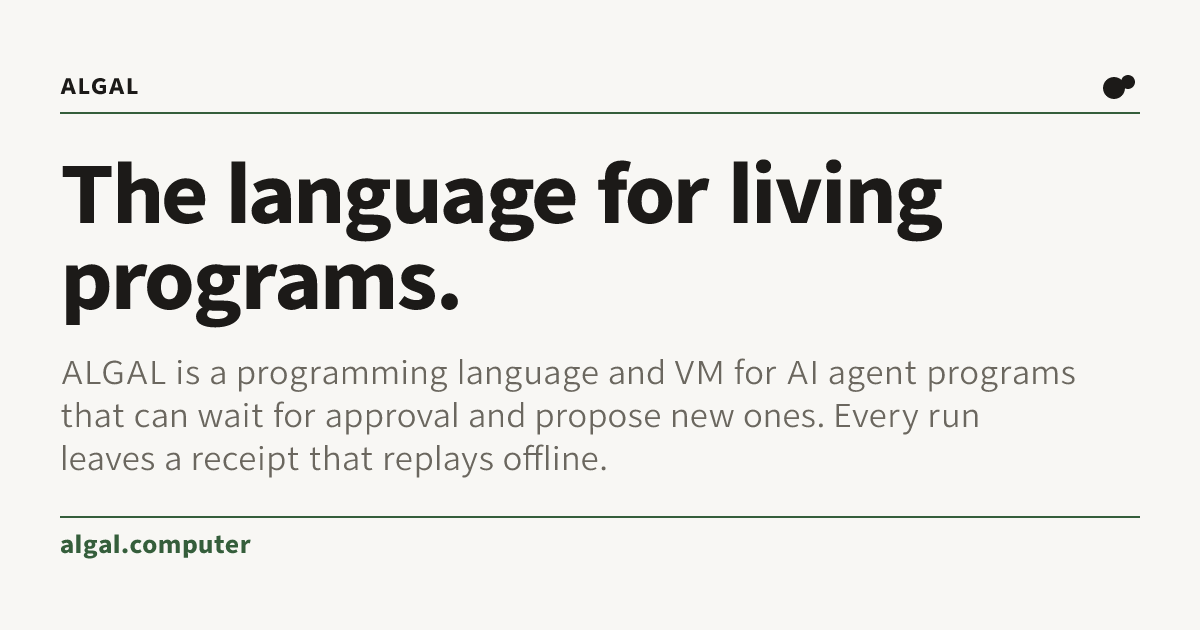
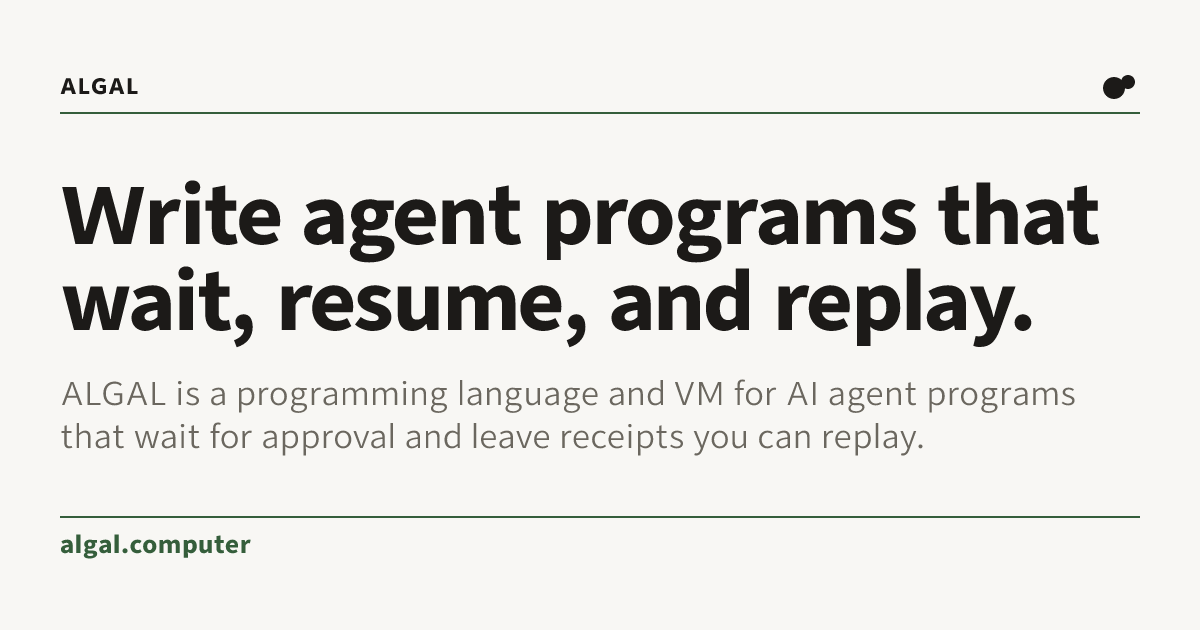
Carry canonical product messaging
Apply the canonical portfolio messaging record (jungle a9988b903) to every
copy surface: site title, meta, JSON-LD, social card, hero, footer, llms.txt,
README lead, both CLI intros, package and crate descriptions, and the
workbench report name case.

Changed region(s): [[0.0308, 0.2413, 0.925, 0.754]]

diff --git a/crates/algal/src/demo_report.html b/crates/algal/src/demo_report.html
@@ -4,7 +4,7 @@
 <meta charset="utf-8">
 <meta name="viewport" content="width=device-width,initial-scale=1">
 <meta http-equiv="Content-Security-Policy" content="default-src 'none'; script-src 'sha256-__ALGAL_SCRIPT_HASH__'; style-src 'unsafe-inline'; img-src data:; base-uri 'none'; form-action 'none'; connect-src 'none'">
-<title>Algal · VM workbench</title>
+<title>ALGAL · VM workbench</title>
 <style>
 :root{color-scheme:light;--ink:#172e34;--muted:#617176;--line:#dbe1d9;--paper:#f0f3eb;--green:#16785f;--mint:#83f0c8;--night:#102e36;--amber:#f2cf76;--sans:-apple-system,BlinkMacSystemFont,"Segoe UI",sans-serif;--mono:ui-monospace,SFMono-Regular,Consolas,monospace}
 *{box-sizing:border-box}body{margin:0;background:var(--paper);color:var(--ink);font-family:var(--sans);font-size:15px;line-height:1.5}button,a{touch-action:manipulation}button{font:inherit;cursor:pointer}button:disabled{cursor:default;opacity:.5}button:focus-visible,a:focus-visible,summary:focus-visible{outline:3px solid #1b9479;outline-offset:4px}a{color:var(--green)}.shell{max-width:1320px;margin:auto;padding:0 44px}header{height:91px;display:flex;align-items:center;justify-content:space-between;border-bottom:1px solid var(--line)}.brand{display:flex;align-items:center;gap:13px;font-weight:750;font-size:25px;letter-spacing:-1.3px}.mark{display:grid;grid-template-columns:9px 9px;gap:3px;transform:rotate(-12deg)}.mark i{width:9px;height:9px;border-radius:3px;background:var(--green)}.mark i:nth-child(2){opacity:.45}.brand small{font-size:11px;font-weight:600;color:var(--muted);letter-spacing:2px;margin-left:14px;padding-left:22px;border-left:1px solid #cad3ca}.header-note{display:flex;align-items:center;gap:9px;color:var(--muted);font-size:12px}.dot{width:7px;height:7px;border-radius:50%;background:#399978}.eyebrow{font-family:var(--mono);font-size:11px;text-transform:uppercase;letter-spacing:1.8px;color:var(--muted)}main{padding:34px 0 48px}.topline{display:flex;justify-content:space-between;align-items:center;margin-bottom:18px}.topline span:last-child{font-size:12px;color:var(--muted)}.layout{display:grid;grid-template-columns:minmax(0,1fr) 335px;gap:22px}.hero{background:var(--night);border-radius:18px;overflow:hidden;color:#fff;padding:32px 32px 28px;position:relative}.hero:after{content:"";position:absolute;right:-75px;top:-90px;width:275px;height:275px;border:1px solid #35575a;border-radius:50%;box-shadow:0 0 0 34px #18373f,0 0 0 35px #2b4b50;opacity:.55;pointer-events:none}.hero>*{position:relative;z-index:1}.status{display:inline-flex;gap:8px;align-items:center;padding:6px 10px;border:1px solid #5a6861;border-radius:6px;color:var(--amber);font:10px var(--mono);letter-spacing:1.2px}.status:before{content:"";width:5px;height:5px;border-radius:50%;background:currentColor}.hero h1{font-size:38px;line-height:1.13;letter-spacing:-1.4px;font-weight:550;margin:24px 0 14px;max-width:520px}.hero p{max-width:510px;color:#b9cfce;line-height:1.65;font-size:14px;margin:0}.pipeline{display:flex;align-items:center;gap:0;margin-top:34px}.node{flex:1;min-width:0;border:1px solid #41605f;border-radius:9px;padding:13px 10px;position:relative;background:#163b40}.node b{display:block;font-size:12px;font-weight:550}.node small{font:10px var(--mono);color:#9abcb5}.node .symbol{color:var(--mint);margin-bottom:5px;font-size:15px}.node.waiting{border-color:#b59b57;background:#3a4238}.node.waiting .symbol{color:var(--amber)}.node.pending{background:#18373e;border-color:#34515a;color:#789399}.node.pending .symbol{color:#65858e}.connector{width:19px;height:1px;background:#577775;flex-shrink:0}.metrics{display:grid;grid-template-columns:repeat(3,1fr);gap:12px;margin:18px 0 22px}.metric{background:#fff;border:1px solid var(--line);border-radius:11px;padding:17px 19px}.metric strong{display:block;font-size:29px;line-height:1.1;font-weight:550;letter-spacing:-1px}.metric span{display:block;color:var(--muted);font-size:11px;margin-top:8px}.panel{background:#fff;border:1px solid var(--line);border-radius:13px;overflow:hidden}.panel-head{padding:19px 23px;display:flex;justify-content:space-between;align-items:center;border-bottom:1px solid var(--line)}h2{font-size:15px;font-weight:650;margin:0;letter-spacing:-.2px}.badge{font:10px var(--mono);color:var(--green);background:#e5f4eb;padding:4px 7px;border-radius:4px}.tabs{display:flex;gap:23px;padding:0 23px;border-bottom:1px solid var(--line)}.tabs button{border:0;background:none;padding:16px 0 12px;font-size:12px;color:var(--muted);border-bottom:2px solid transparent}.tabs button[aria-selected="true"]{color:var(--ink);border-color:var(--green);font-weight:650}.tab-body{padding:23px;min-height:216px}pre{font:11px/1.75 var(--mono);white-space:pre-wrap;overflow-wrap:anywhere;margin:0;max-height:360px;overflow:auto;color:#3d545c}code{font-family:var(--mono)}.proposal-summary{font-size:16px;line-height:1.6;margin:0 0 20px;max-width:570px}.binding{display:flex;align-items:center;gap:10px;font-size:10px;color:var(--muted);margin-top:20px}.digest{font:10px var(--mono);overflow-wrap:anywhere;word-break:break-all}.history-row{display:flex;gap:16px;align-items:flex-start;padding:12px 0;border-bottom:1px solid #edf0eb}.history-row:last-child{border:0}.history-icon{width:27px;height:27px;border:1px solid #bcd5c8;border-radius:50%;display:grid;place-items:center;font:10px var(--mono);color:var(--green);flex-shrink:0}.history-row b{font-size:12px;font-weight:600}.history-row small{display:block;font:10px var(--mono);color:var(--muted);margin-top:3px;overflow-wrap:anywhere}.history-row .stamp{margin-left:auto;font:10px var(--mono);color:var(--muted);white-space:nowrap}.aside{display:flex;flex-direction:column;gap:17px}.decision{padding:24px}.step{display:flex;gap:9px;align-items:center;font:10px var(--mono);color:var(--muted);letter-spacing:1px;text-transform:uppercase;margin-bottom:18px}.step span{height:20px;width:20px;border:1px solid #becac1;border-radius:50%;display:grid;place-items:center;font-size:9px}.decision h2{font-size:20px;letter-spacing:-.5px}.decision p{font-size:12px;line-height:1.7;color:var(--muted);margin:12px 0 18px}.action{padding:12px;background:#f4f6f0;border:1px solid #e0e6dc;border-radius:7px;margin-bottom:18px}.action label{display:block;color:var(--muted);font:9px var(--mono);letter-spacing:1px;margin-bottom:6px;text-transform:uppercase}.action strong{font:11px var(--mono)}.primary,.secondary{display:block;width:100%;border-radius:7px;padding:11px;font-size:12px;font-weight:600}.primary{color:#fff;background:var(--green);border:1px solid var(--green)}.primary:hover:not(:disabled){background:#11634e}.secondary{margin-top:9px;background:#fff;border:1px solid #d4ddd2;color:var(--ink)}.hint{font-size:10px!important;line-height:1.6!important;margin-bottom:0!important}.small-panel{padding:23px}.small-panel .eyebrow{font-size:9px}.small-panel h2{font-size:15px;margin:11px 0 9px}.small-panel p{font-size:12px;color:var(--muted);line-height:1.7;margin:0 0 15px}.text-button{border:0;background:none;padding:0;color:var(--green);font-size:12px;font-weight:600;text-align:left}.text-button:after{content:" ↗"}.proof-list{padding:0;margin:17px 0 0;list-style:none}.proof-list li{display:flex;gap:9px;padding:7px 0;font-size:11px;color:#52676a}.proof-list li:before{content:"✓";color:var(--green)}.proof-list li.pending-proof:before{content:"—";color:var(--muted)}.filename{font:10px var(--mono);color:var(--muted);overflow-wrap:anywhere}.notice{margin-top:20px;display:flex;gap:13px;align-items:flex-start;color:var(--muted);font-size:11px;line-height:1.65}.notice .dot{margin-top:6px;flex-shrink:0}.commands{margin-top:20px;border-top:1px solid var(--line);padding-top:17px}summary{cursor:pointer;font-size:11px;color:var(--muted)}.commands pre{padding-top:12px;font-size:10px}.footer{padding-top:28px;display:flex;justify-content:space-between;color:#748078;font:10px var(--mono);gap:20px}.toast{position:fixed;bottom:25px;left:50%;transform:translateX(-50%);background:var(--ink);color:#fff;padding:12px 18px;border-radius:8px;font-size:12px;box-shadow:0 5px 25px #152c3430;z-index:10;max-width:90%;text-align:center}.hide,[hidden]{display:none!important}.error{padding:40px;font-family:var(--mono);color:#8b3333}a.artifact{display:inline-block;font-size:11px;margin-top:14px}a.artifact+a.artifact{margin-left:16px}
@@ -27,7 +27,7 @@
 <div class="notice"><span class="dot"></span><div><strong>Real execution. A deterministic decision fixture.</strong><br>The VM retains state, enforces the approval boundary, and records its effects. This demonstration uses no live model or remote publication. Counts come from distinct recorded effects and deliveries.</div></div>
 </div><aside class="aside">
 <section class="panel decision"><div class="step"><span>↳</span>Operator boundary</div><h2 id="decision-title">Your decision.</h2><p id="decision-copy">The program can propose. Only your next command can authorize the exact retained action.</p><div class="action"><label>Allowed action</label><strong>publish-local-report</strong><label style="margin-top:10px">Destination</label><strong>publication.json</strong></div><button class="primary" id="approve">Copy approve command</button><button class="secondary" id="deny">Copy deny command</button><p class="hint">Paste the command into your terminal, then reopen this report. Copying a command does not execute it.</p><details class="commands"><summary>Show commands</summary><pre id="action-commands"></pre></details></section>
-<section class="panel small-panel"><div class="eyebrow">Portable history</div><h2>Take the proof with you.</h2><p>Export one file. Verify the recorded generations with another Algal binary, without this store or its adapters.</p><button class="text-button" id="export">Copy export command</button><br><a class="artifact" id="capsule-link" href="evidence.algal.json" download hidden>Evidence JSON ↓</a><a class="artifact" id="publication-link" href="publication.json" download hidden>Local report ↓</a><div class="commands"><button class="text-button" id="verify">Copy verify command</button></div></section>
+<section class="panel small-panel"><div class="eyebrow">Portable history</div><h2>Take the proof with you.</h2><p>Export one file. Verify the recorded generations with another ALGAL binary, without this store or its adapters.</p><button class="text-button" id="export">Copy export command</button><br><a class="artifact" id="capsule-link" href="evidence.algal.json" download hidden>Evidence JSON ↓</a><a class="artifact" id="publication-link" href="publication.json" download hidden>Local report ↓</a><div class="commands"><button class="text-button" id="verify">Copy verify command</button></div></section>
 <section class="panel small-panel"><div class="eyebrow">Reported checks</div><ul class="proof-list"><li id="proof-replay">History verification pending</li><li>Exact proposal required for approval</li><li>Evidence export grants no execution custody</li></ul><p class="hint">Replay checks consistency. It does not authenticate the author or establish provider truth.</p></section>
 </aside></div><footer class="footer"><span id="root-label"></span><span>ALGAL · APPLICATION VM / <span id="stage-label"></span></span></footer></main></div>
 <div class="toast" id="toast" role="status" aria-live="polite" hidden></div>
@@ -40,7 +40,7 @@
   const object = value => value && typeof value === "object" && !Array.isArray(value) ? value : {};
   let report;
   try { report = object(JSON.parse($("algal-report").textContent)); if (report.contract !== "algal.demo-report.v1") throw Error("Unexpected report contract"); }
-  catch { $("app").replaceChildren(); const warning = document.createElement("p"); warning.className = "error"; warning.textContent = "This report is invalid. Inspect the retained state with the Algal CLI."; $("app").append(warning); return; }
+  catch { $("app").replaceChildren(); const warning = document.createElement("p"); warning.className = "error"; warning.textContent = "This report is invalid. Inspect the retained state with the ALGAL CLI."; $("app").append(warning); return; }
   const proposal = object(report.proposal), evidence = object(report.evidence), counters = object(report.counters), rawCommands = object(report.commands), verification = object(report.verification);
   const shellWord = value => "'" + value.replaceAll("'", "'\\''") + "'";
   const commandText = value => {

diff --git a/site/pages/home.html b/site/pages/home.html
@@ -14,18 +14,17 @@
       <div class="amoeba am-state" data-hraness-hero-item><span class="am-tag"><b>recall</b><i>query → memories</i></span></div>
       <div class="amoeba am-composition" data-hraness-hero-item><span class="am-tag"><b>call</b><i>args → child</i></span></div>
       <div class="amoeba am-state" data-hraness-hero-item><span class="am-tag"><b>wait</b><i>event → resume</i></span></div>
-      <div class="amoeba am-effect" data-hraness-hero-item><span class="am-tag"><b>gate</b><i>evidence → admit</i></span></div>
+      <div class="amoeba am-effect" data-hraness-hero-item><span class="am-tag"><b>gate</b><i>evidence → allow</i></span></div>
       <div class="amoeba am-pure" data-hraness-hero-item><span class="am-tag"><b>emit</b><i>value → out</i></span></div>
     </div>
-    <p class="eyebrow"><svg class="site-icon" aria-hidden="true" focusable="false" viewBox="0 0 24 24" fill="none" stroke="currentColor" stroke-width="1.5"><use href="/icons.svg#terminal"></use></svg>Programming language and virtual machine</p>
-    <h1 id="hero-title" class="hraness-marketing-hero__heading">The language for<br><em>living programs.</em></h1>
+    <p class="eyebrow"><svg class="site-icon" aria-hidden="true" focusable="false" viewBox="0 0 24 24" fill="none" stroke="currentColor" stroke-width="1.5"><use href="/icons.svg#terminal"></use></svg>Agent programming language</p>
+    <h1 id="hero-title" class="hraness-marketing-hero__heading">Write agent programs that wait,<br><em>resume, and replay.</em></h1>
     <div class="hero-grid">
       <div class="hero-copy">
-        <p class="lede hraness-marketing-hero__summary">An ALGAL program, called an organism, is typed data with declared limits. It can wait for an approval and resume in a new process, keep state between runs, propose new programs for the host to test, and leave a receipt that replays offline.</p>
+        <p class="lede hraness-marketing-hero__summary">Write agent programs that can wait for approval, survive a crash, and replay their runs from the receipts they leave.</p>
         <div class="hero-actions">
-          <a class="button hraness-marketing-action" data-emphasis="primary" href="https://github.com/hraness/algal/releases">Install the VM <svg class="site-icon" aria-hidden="true" focusable="false" viewBox="0 0 24 24" fill="none" stroke="currentColor" stroke-width="1.5"><use href="/icons.svg#arrow-up-right"></use></svg></a>
-          <a class="hero-secondary" href="/tour/">Take the tour <svg class="site-icon" aria-hidden="true" focusable="false" viewBox="0 0 24 24" fill="none" stroke="currentColor" stroke-width="1.5"><use href="/icons.svg#arrow-right"></use></svg></a>
-          <a class="hero-secondary" href="/docs/spec/organism/">Read the spec <svg class="site-icon" aria-hidden="true" focusable="false" viewBox="0 0 24 24" fill="none" stroke="currentColor" stroke-width="1.5"><use href="/icons.svg#arrow-up-right"></use></svg></a>
+          <a class="button hraness-marketing-action" data-emphasis="primary" href="#install">Install ALGAL <svg class="site-icon" aria-hidden="true" focusable="false" viewBox="0 0 24 24" fill="none" stroke="currentColor" stroke-width="1.5"><use href="/icons.svg#arrow-right"></use></svg></a>
+          <a class="hero-secondary" href="/tour/">See a program run <svg class="site-icon" aria-hidden="true" focusable="false" viewBox="0 0 24 24" fill="none" stroke="currentColor" stroke-width="1.5"><use href="/icons.svg#arrow-right"></use></svg></a>
         </div>
         <p class="hero-meta"><code>algal.organism.v1</code> · Rust kernel + TypeScript reference · MIT</p>
         {{HERO_CHOOSER}}

diff --git a/site/chrome.ts b/site/chrome.ts
@@ -87,7 +87,7 @@ ${meta.page === "workbench" ? '<link rel="stylesheet" href="/living.css">\n<link
       <a href="${REPO}">GitHub ${siteIcon("arrow-up-right")}</a>
     </nav>
     <div class="site-header-actions">
-      <a class="hraness-marketing-action" data-emphasis="primary" href="${REPO}/releases">Install</a>
+      <a class="hraness-marketing-action" data-emphasis="primary" href="/#install">Install</a>
       <div class="hraness-design-theme-toggle" data-hraness-appearance-menu data-presentation="menu" data-ready="false" aria-busy="true">
         <button class="hraness-design-theme-toggle__trigger" type="button" aria-label="Appearance: System" aria-haspopup="menu" aria-expanded="false" aria-controls="algal-appearance-menu" disabled><span data-current-appearance-icon="system">${siteIcon("computer")}</span></button>
         <div class="hraness-design-theme-toggle__popover" hidden>
@@ -104,7 +104,7 @@ ${meta.page === "workbench" ? '<link rel="stylesheet" href="/living.css">\n<link
 
 ${main}
 
-<footer class="site-footer"><a class="wordmark" href="/" aria-label="ALGAL home"><img src="/favicon.svg" width="24" height="24" alt="">algal</a><p>${SITE_TAGLINE}</p><div><a href="${REPO}">Source</a><a href="/docs/">Documentation</a><a href="/living/">Living software</a><a href="/blog/">Blog</a><a href="/compare/">Compare</a><a href="/docs/spec/organism/">Spec</a><a href="/llms.txt">llms.txt</a><span>MIT · Early, working software · {{BUILD_STATS}}</span></div></footer>
+<footer class="site-footer"><a class="wordmark" href="/" aria-label="ALGAL home"><img src="/favicon.svg" width="24" height="24" alt="">algal</a><p>${SITE_TAGLINE}</p><div><a href="${REPO}">Source</a><a href="/docs/">Documentation</a><a href="/living/">Living software</a><a href="/blog/">Blog</a><a href="/compare/">Compare</a><a href="/docs/spec/organism/">Spec</a><a href="/llms.txt">llms.txt</a><span>MIT · Preview · {{BUILD_STATS}}</span></div></footer>
 
 </body>
 </html>

diff --git a/site/copy.ts b/site/copy.ts
@@ -1,15 +1,16 @@
 // Site-wide copy rendered in more than one place: the home page metadata, the
 // JSON-LD description, the footer, the social card, and the limits section
 // shared by the home and use-cases pages. Change these strings here only.
-// Public copy follows STYLE.md; the tagline is the owner's positioning line.
+// Public copy follows STYLE.md; the tagline and description are the canonical
+// lines from the portfolio messaging record for ALGAL.
 
-export const SITE_TAGLINE = "The language for living programs.";
+export const SITE_TAGLINE = "Write agent programs that wait, resume, and replay.";
 
 /** The home page description, JSON-LD description, and social card text. */
-export const SITE_DESCRIPTION = "ALGAL is a programming language and VM for AI agent programs that can wait for approval and propose new ones. Every run leaves a receipt that replays offline.";
+export const SITE_DESCRIPTION = "ALGAL is a programming language and VM for AI agent programs that wait for approval and leave receipts you can replay.";
 
 /** Every page shares one social image, so every page shares its alt text. */
-export const OG_IMAGE_ALT = "ALGAL card with the line “The language for living programs.”, a one-line description, and the algal.computer address";
+export const OG_IMAGE_ALT = "ALGAL card showing the tagline “Write agent programs that wait, resume, and replay.” and the algal.computer address";
 
 /** Fit and prerelease limits, shown once on the home page and once on the use-cases page.
  * Each page states the receipt limit beside its own receipt copy. */

diff --git a/cli.ts b/cli.ts
@@ -87,7 +87,7 @@ async function recallSpecExecutor(spec: string, dir: string): Promise<Executor |
   };
 }
 
-const USAGE = `algal — typed, replayable workflow organisms
+const USAGE = `algal: Language and VM for agent programs that wait for approval and resume
 
 usage:
   algal compile <program.algal> [--out <manifest.json>] [--source-map <map.json>]

diff --git a/crates/algal/src/main.rs b/crates/algal/src/main.rs
@@ -71,7 +71,7 @@ impl app_memory::MemoryAdmission for NoAdmission {
 #[command(
     name = "algal",
     version,
-    about = "Programs that grow. A typed language and harness for bounded agent work."
+    about = "Language and VM for agent programs that wait for approval and resume"
 )]
 struct Cli {
     /// Store directory: manifests, receipts, values, slots, and process state.

diff --git a/README.md b/README.md
@@ -1,14 +1,21 @@
 # ALGAL
 
-**Agent work that survives a pause and comes back with evidence.**
+**Write agent programs that wait, resume, and replay.**
 
-ALGAL is a language and application VM for bounded agent programs. Use it when
-an AI-assisted task needs to wait for a person, survive a CLI restart, reuse
-completed work, or explain what happened without calling the model again.
-Your host application chooses the tools and permissions; the program declares
-its decisions, limits, and approval points. A native Rust CLI and a Bun runtime
-that runs on its own implement the same specifications for programs, receipts,
-and durable processes.
+ALGAL is a programming language and VM for AI agent programs. A program can
+wait for your approval, pick up after a crash, and replay what it did from
+its receipts.
+
+Use it when an AI-assisted task needs to wait for a person, survive a CLI
+restart, reuse completed work, or explain what happened without calling the
+model again. Your host application chooses the tools and permissions; the
+program declares its decisions, limits, and approval points. A native Rust
+CLI and a Bun runtime that runs on its own implement the same specifications
+for programs, receipts, and durable processes.
+
+Preview: the current native build is
+[v0.2.0-vm.9](https://github.com/hraness/algal/releases) for macOS on Apple
+silicon and Linux x86_64, and the Bun runtime runs from this checkout.
 
 ## The idea
 
@@ -1222,10 +1229,10 @@ forged-output detection.
 
 ## Related work
 
-ALGAL is a Hraness project. It shares conventions with `oh`
+ALGAL is a Hraness project. It shares conventions with Oh
 (content-addressed canonical records), `platonik` (bounded organisms and
-symbolization), `valhalla` (authority boundaries and witness execution), and
-`xcb` (execution custody and model routing), but it is
+symbolization), Valhalla (authority boundaries and witness execution), and
+xcb (execution custody and model routing), but it is
 standalone: the store and executor seams are where those foundations attach.
 
 ## License

diff --git a/site/AGENTS.md b/site/AGENTS.md
@@ -11,7 +11,7 @@
 # Guidelines
 
 - Preserve executable examples, navigation, the `{{PLACEHOLDER}}` tokens in `pages/`, and the Tokyo Night palette and light/dark/system appearance. A design change does not rewrite product copy as a side effect.
-- Copy edits follow the root `AGENTS.md` "Public copy" section and `STYLE.md`. Verify each command, flag, and limit against the CLI and docs before you change it, keep every true limit, and put text shown on more than one page in `copy.ts`. The site tagline and home H1 are owner decisions.
+- Copy edits follow the root `AGENTS.md` "Public copy" section and `STYLE.md`. Verify each command, flag, and limit against the CLI and docs before you change it, keep every true limit, and put text shown on more than one page in `copy.ts`. The site tagline and home H1 come from the portfolio messaging record (product `algal`).
 - Keep Design Kit and UI as pinned build-only dependencies; the CLI retains zero required runtime dependencies.
 - Bundle the released marketing stylesheet with its syntax stylesheet and license. Do not fork its foil recipe.
 - The header mark and wordmark share the released recipe. Retain the original image underneath the alpha mask for forced colors and unsupported masks.

diff --git a/AGENTS.md b/AGENTS.md
@@ -70,10 +70,11 @@
 - Public copy is the website (`site/`), `README.md`, the mirrored `docs/` and
   `spec/v1/` pages, `site/llms.txt`, CLI help, package metadata, release notes,
   and the native workbench report. It follows `STYLE.md` and `WRITING.md`.
-- The canonical one-line description of ALGAL is an open owner decision. Until
-  it is made, reuse `SITE_DESCRIPTION` in `site/copy.ts` instead of writing
-  another variant, and do not change the site tagline or home H1 without the
-  owner.
+- The canonical ALGAL identity lines come from the portfolio messaging record
+  (product `algal`): `site/copy.ts` carries them as `SITE_TAGLINE` and
+  `SITE_DESCRIPTION`, and the home H1, README lead, CLI intros, package
+  descriptions, and `llms.txt` take the same fields. Reuse those constants
+  and record fields instead of writing another variant.
 - Translate this file's internal vocabulary on public pages:
   - admit, admission: check and accept (a manifest); attach (an executor,
     tool, or capability)

diff --git a/CHANGELOG.md b/CHANGELOG.md
@@ -9,6 +9,10 @@ wire constant (`0.1.0`) is independent of these package versions.
 
 ## Unreleased
 
+- Public copy adopts the canonical portfolio messaging record: the site
+  title, hero, footer, social card, `llms.txt` introduction, README lead,
+  both CLI introductions, and the package and crate descriptions now carry
+  the same tagline and description lines.
 - `algal dependencies --estimate` gives every call and module a minimum and
   maximum number of runs per run of the entry: enclosing `each` item limits
   multiply, a call under a branch arm has a minimum of 0, and products above
